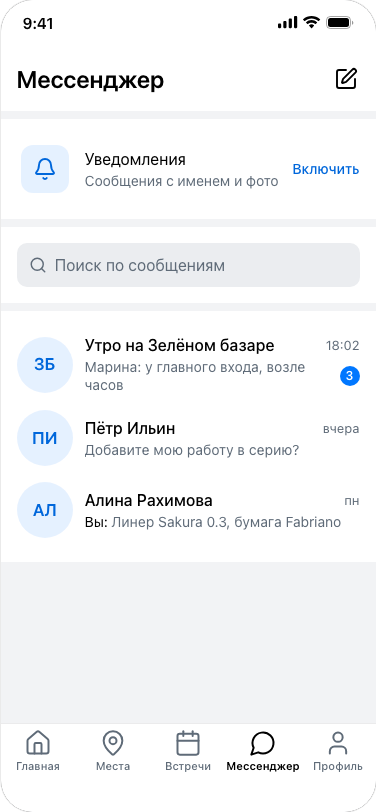
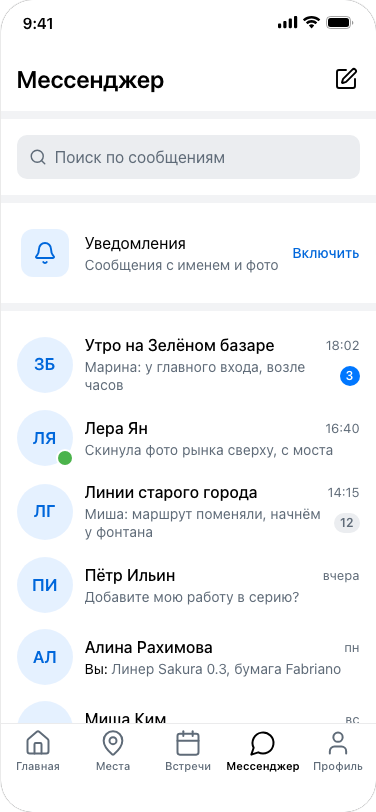
Штрих: мессенджер — поиск сверху, живой список диалогов по времени, отправитель голосового

diff --git a/platform/concepts/shtrikh/screens/chats.html b/platform/concepts/shtrikh/screens/chats.html
@@ -1,1 +1,1 @@
-<div class="screen ui vk-light" id="scr-chats"><div class="ui-scroll is-root"><header class="ui-large"><h1>Мессенджер</h1><button class="ui-icon-btn" data-go="authors" aria-label="Новое сообщение"><svg><use href="#i-square-pen"/></svg></button></header><section class="ui-sec"><div class="ui-list"><div class="ui-row"><span class="ui-lead"><svg><use href="#i-bell"/></svg></span><span class="ui-row-text"><strong>Уведомления</strong><span>Сообщения с именем и фото</span></span><button class="ui-row-end is-value is-action" data-activate="commnotif|chats" aria-label="Включить уведомления о сообщениях">Включить</button></div></div><p class="perm-hidden ui-note is-ok" data-show-granted="commnotif"><svg><use href="#i-circle-check"/></svg><span>Сообщения приходят с именем и фото</span></p></section><section class="ui-sec"><div class="ui-search"><svg><use href="#i-search"/></svg><span>Поиск по сообщениям</span></div></section><section class="ui-sec"><button class="ui-dialog" data-primary data-go="chat" aria-label="Диалог: Утро на Зелёном базаре"><span class="ui-dialog-ava"><span class="ui-dialog-face is-initial">ЗБ</span></span><span class="ui-dialog-body"><span class="ui-dialog-top"><strong>Утро на Зелёном базаре</strong><span>18:02</span></span><span class="ui-dialog-bottom"><span>Марина: у главного входа, возле часов</span><span class="ui-unread">3</span></span></span></button><button class="ui-dialog" data-go="direct" aria-label="Диалог: Пётр Ильин"><span class="ui-dialog-ava"><span class="ui-dialog-face is-initial">ПИ</span></span><span class="ui-dialog-body"><span class="ui-dialog-top"><strong>Пётр Ильин</strong><span>вчера</span></span><span class="ui-dialog-bottom"><span>Добавите мою работу в серию?</span></span></span></button><button class="ui-dialog" data-go="direct" aria-label="Диалог: Алина Рахимова"><span class="ui-dialog-ava"><span class="ui-dialog-face is-initial">АЛ</span></span><span class="ui-dialog-body"><span class="ui-dialog-top"><strong>Алина Рахимова</strong><span>пн</span></span><span class="ui-dialog-bottom"><span><b>Вы:</b> Линер Sakura 0.3, бумага Fabriano</span></span></span></button></section></div><nav class="ui-tabs tabbar" aria-label="Основная навигация"><div class="ui-tabrow"><button class="ui-tab tab" data-go="home"><svg><use href="#i-house"/></svg><span>Главная</span></button><button class="ui-tab tab" data-go="places"><svg><use href="#i-map-pin"/></svg><span>Места</span></button><button class="ui-tab tab" data-go="events"><svg><use href="#i-calendar"/></svg><span>Встречи</span></button><button class="ui-tab tab is-on" data-go="chats"><svg><use href="#i-message-circle"/></svg><span>Мессенджер</span></button><button class="ui-tab tab" data-go="me"><svg><use href="#i-user"/></svg><span>Профиль</span></button></div></nav><div class="home-ind"></div></div>
+<div class="screen ui vk-light" id="scr-chats"><div class="ui-scroll is-root"><header class="ui-large"><h1>Мессенджер</h1><button class="ui-icon-btn" data-go="authors" aria-label="Новое сообщение"><svg><use href="#i-square-pen"/></svg></button></header><section class="ui-sec"><div class="ui-search"><svg><use href="#i-search"/></svg><span>Поиск по сообщениям</span></div></section><section class="ui-sec"><div class="ui-list"><div class="ui-row"><span class="ui-lead"><svg><use href="#i-bell"/></svg></span><span class="ui-row-text"><strong>Уведомления</strong><span>Сообщения с именем и фото</span></span><button class="ui-row-end is-value is-action" data-activate="commnotif|chats" aria-label="Включить уведомления о сообщениях">Включить</button></div></div><p class="perm-hidden ui-note is-ok" data-show-granted="commnotif"><svg><use href="#i-circle-check"/></svg><span>Сообщения приходят с именем и фото</span></p></section><section class="ui-sec"><button class="ui-dialog" data-primary data-go="chat" aria-label="Диалог: Утро на Зелёном базаре"><span class="ui-dialog-ava"><span class="ui-dialog-face is-initial">ЗБ</span></span><span class="ui-dialog-body"><span class="ui-dialog-top"><strong>Утро на Зелёном базаре</strong><span>18:02</span></span><span class="ui-dialog-bottom"><span>Марина: у главного входа, возле часов</span><span class="ui-unread">3</span></span></span></button><button class="ui-dialog" data-go="direct" aria-label="Диалог: Лера Ян"><span class="ui-dialog-ava"><span class="ui-dialog-face is-initial">ЛЯ</span><i class="ui-online"></i></span><span class="ui-dialog-body"><span class="ui-dialog-top"><strong>Лера Ян</strong><span>16:40</span></span><span class="ui-dialog-bottom"><span>Скинула фото рынка сверху, с моста</span></span></span></button><button class="ui-dialog" data-go="chat" aria-label="Диалог: Линии старого города"><span class="ui-dialog-ava"><span class="ui-dialog-face is-initial">ЛГ</span></span><span class="ui-dialog-body"><span class="ui-dialog-top"><strong>Линии старого города</strong><span>14:15</span></span><span class="ui-dialog-bottom"><span>Миша: маршрут поменяли, начнём у фонтана</span><span class="ui-unread is-muted">12</span></span></span></button><button class="ui-dialog" data-go="direct" aria-label="Диалог: Пётр Ильин"><span class="ui-dialog-ava"><span class="ui-dialog-face is-initial">ПИ</span></span><span class="ui-dialog-body"><span class="ui-dialog-top"><strong>Пётр Ильин</strong><span>вчера</span></span><span class="ui-dialog-bottom"><span>Добавите мою работу в серию?</span></span></span></button><button class="ui-dialog" data-go="direct" aria-label="Диалог: Алина Рахимова"><span class="ui-dialog-ava"><span class="ui-dialog-face is-initial">АЛ</span></span><span class="ui-dialog-body"><span class="ui-dialog-top"><strong>Алина Рахимова</strong><span>пн</span></span><span class="ui-dialog-bottom"><span><b>Вы:</b> Линер Sakura 0.3, бумага Fabriano</span></span></span></button><button class="ui-dialog" data-go="direct" aria-label="Диалог: Миша Ким"><span class="ui-dialog-ava"><span class="ui-dialog-face is-initial">МК</span></span><span class="ui-dialog-body"><span class="ui-dialog-top"><strong>Миша Ким</strong><span>вс</span></span><span class="ui-dialog-bottom"><span>Спасибо за разбор перспективы</span></span></span></button><button class="ui-dialog" data-go="direct" aria-label="Диалог: Марина Ли"><span class="ui-dialog-ava"><span class="ui-dialog-face is-initial">МЛ</span></span><span class="ui-dialog-body"><span class="ui-dialog-top"><strong>Марина Ли</strong><span>14 сен</span></span><span class="ui-dialog-bottom"><span><b>Вы:</b> Приду пораньше, займу место у часов</span></span></span></button></section></div><nav class="ui-tabs tabbar" aria-label="Основная навигация"><div class="ui-tabrow"><button class="ui-tab tab" data-go="home"><svg><use href="#i-house"/></svg><span>Главная</span></button><button class="ui-tab tab" data-go="places"><svg><use href="#i-map-pin"/></svg><span>Места</span></button><button class="ui-tab tab" data-go="events"><svg><use href="#i-calendar"/></svg><span>Встречи</span></button><button class="ui-tab tab is-on" data-go="chats"><svg><use href="#i-message-circle"/></svg><span>Мессенджер</span></button><button class="ui-tab tab" data-go="me"><svg><use href="#i-user"/></svg><span>Профиль</span></button></div></nav><div class="home-ind"></div></div>

diff --git a/platform/concepts/shtrikh/screens/chat.html b/platform/concepts/shtrikh/screens/chat.html
@@ -1,1 +1,1 @@
-<div class="screen ui vk-light" id="scr-chat"><header class="ui-nav ui-chat-nav"><button class="ui-icon-btn" data-back aria-label="Назад"><svg><use href="#i-chevron-left"/></svg></button><span class="ui-chat-who"><span class="ui-chat-face is-initial">ЗБ</span><span class="ui-chat-text"><strong>Утро на Зелёном базаре</strong><span>Завтра в 09:00 · 18 участников</span></span></span><button class="ui-icon-btn" data-activate="voip|call" aria-label="Позвонить"><svg><use href="#i-phone"/></svg><span class="ui-sr">Позвонить</span></button></header><div class="ui-scroll"><div class="ui-chat"><p class="ui-day">Сегодня</p><div class="ui-bubble is-in"><span class="ui-bubble-from">Марина Ли</span><span class="ui-bubble-text">Встречаемся у главного входа, возле часов</span><span class="ui-bubble-meta">17:38</span></div><div class="ui-bubble is-in has-attach"><span class="ui-bubble-from">Миша Ким</span><span class="ui-bubble-media"><span class="sh-chat-art sh-s3"></span></span><span class="ui-bubble-text">Вот ракурс с прошлого раза</span><span class="ui-bubble-meta">17:52</span></div><div class="ui-bubble is-out"><span class="ui-bubble-text">Возьму линер и складной стул</span><span class="ui-bubble-meta">17:55<svg><use href="#i-check-check"/></svg></span></div><div class="ui-bubble ui-voice is-in"><span class="ui-voice-row"><button class="ui-voice-play" data-toast="Воспроизведение 0:09" aria-label="Голосовое 0:09"><svg class="ui-fill-ico"><use href="#i-play"/></svg></button><span class="ui-voice-body"><svg class="ui-wave" viewBox="0 0 120 24" aria-hidden="true"><rect x="0" y="4.5" width="2" height="15" rx="1"/><rect x="4" y="4.5" width="2" height="15" rx="1"/><rect x="8" y="4.5" width="2" height="15" rx="1"/><rect x="12" y="2.5" width="2" height="19" rx="1"/><rect x="16" y="3" width="2" height="18" rx="1"/><rect x="20" y="3" width="2" height="18" rx="1"/><rect x="24" y="3.5" width="2" height="17" rx="1"/><rect x="28" y="1" width="2" height="22" rx="1"/><rect x="32" y="7" width="2" height="10" rx="1"/><rect x="36" y="5" width="2" height="14" rx="1"/><rect x="40" y="2.5" width="2" height="19" rx="1"/><rect x="44" y="6.5" width="2" height="11" rx="1"/><rect x="48" y="9.5" width="2" height="5" rx="1"/><rect x="52" y="4" width="2" height="16" rx="1"/><rect x="56" y="4" width="2" height="16" rx="1"/><rect x="60" y="5.5" width="2" height="13" rx="1"/><rect x="64" y="7.5" width="2" height="9" rx="1"/><rect x="68" y="2.5" width="2" height="19" rx="1"/><rect x="72" y="4.5" width="2" height="15" rx="1"/><rect x="76" y="3.5" width="2" height="17" rx="1"/><rect x="80" y="7.5" width="2" height="9" rx="1"/><rect x="84" y="4.5" width="2" height="15" rx="1"/><rect x="88" y="4.5" width="2" height="15" rx="1"/><rect x="92" y="2.5" width="2" height="19" rx="1"/><rect x="96" y="3.5" width="2" height="17" rx="1"/><rect x="100" y="2" width="2" height="20" rx="1"/><rect x="104" y="7" width="2" height="10" rx="1"/><rect x="108" y="6.5" width="2" height="11" rx="1"/><rect x="112" y="6.5" width="2" height="11" rx="1"/><rect x="116" y="3.5" width="2" height="17" rx="1"/></svg><span class="ui-bubble-meta">0:09<span>18:02</span></span></span></span></div></div></div><div class="perm-hidden" data-show-denied="voip"><p class="ui-note"><svg><use href="#i-info"/></svg><span>Аудиоразбор выключен — продолжайте в сообщениях</span></p></div><div class="ui-composer"><button class="ui-icon-btn" data-go="picker" aria-label="Вложение"><svg><use href="#i-paperclip"/></svg></button><span class="ui-composer-field">Сообщение</span><button class="ui-icon-btn" data-toast="Запись голосового · отпустите, чтобы отправить" aria-label="Голосовое сообщение"><svg><use href="#i-mic"/></svg></button></div><div class="home-ind"></div></div>
+<div class="screen ui vk-light" id="scr-chat"><header class="ui-nav ui-chat-nav"><button class="ui-icon-btn" data-back aria-label="Назад"><svg><use href="#i-chevron-left"/></svg></button><span class="ui-chat-who"><span class="ui-chat-face is-initial">ЗБ</span><span class="ui-chat-text"><strong>Утро на Зелёном базаре</strong><span>Завтра в 09:00 · 18 участников</span></span></span><button class="ui-icon-btn" data-activate="voip|call" aria-label="Позвонить"><svg><use href="#i-phone"/></svg><span class="ui-sr">Позвонить</span></button></header><div class="ui-scroll"><div class="ui-chat"><p class="ui-day">Сегодня</p><div class="ui-bubble is-in"><span class="ui-bubble-from">Марина Ли</span><span class="ui-bubble-text">Встречаемся у главного входа, возле часов</span><span class="ui-bubble-meta">17:38</span></div><div class="ui-bubble is-in has-attach"><span class="ui-bubble-from">Миша Ким</span><span class="ui-bubble-media"><span class="sh-chat-art sh-s3"></span></span><span class="ui-bubble-text">Вот ракурс с прошлого раза</span><span class="ui-bubble-meta">17:52</span></div><div class="ui-bubble is-out"><span class="ui-bubble-text">Возьму линер и складной стул</span><span class="ui-bubble-meta">17:55<svg><use href="#i-check-check"/></svg></span></div><div class="ui-bubble ui-voice is-in"><span class="ui-bubble-from">Лера Ян</span><span class="ui-voice-row"><button class="ui-voice-play" data-toast="Воспроизведение 0:09" aria-label="Голосовое 0:09"><svg class="ui-fill-ico"><use href="#i-play"/></svg></button><span class="ui-voice-body"><svg class="ui-wave" viewBox="0 0 120 24" aria-hidden="true"><rect x="0" y="4.5" width="2" height="15" rx="1"/><rect x="4" y="4.5" width="2" height="15" rx="1"/><rect x="8" y="4.5" width="2" height="15" rx="1"/><rect x="12" y="2.5" width="2" height="19" rx="1"/><rect x="16" y="3" width="2" height="18" rx="1"/><rect x="20" y="3" width="2" height="18" rx="1"/><rect x="24" y="3.5" width="2" height="17" rx="1"/><rect x="28" y="1" width="2" height="22" rx="1"/><rect x="32" y="7" width="2" height="10" rx="1"/><rect x="36" y="5" width="2" height="14" rx="1"/><rect x="40" y="2.5" width="2" height="19" rx="1"/><rect x="44" y="6.5" width="2" height="11" rx="1"/><rect x="48" y="9.5" width="2" height="5" rx="1"/><rect x="52" y="4" width="2" height="16" rx="1"/><rect x="56" y="4" width="2" height="16" rx="1"/><rect x="60" y="5.5" width="2" height="13" rx="1"/><rect x="64" y="7.5" width="2" height="9" rx="1"/><rect x="68" y="2.5" width="2" height="19" rx="1"/><rect x="72" y="4.5" width="2" height="15" rx="1"/><rect x="76" y="3.5" width="2" height="17" rx="1"/><rect x="80" y="7.5" width="2" height="9" rx="1"/><rect x="84" y="4.5" width="2" height="15" rx="1"/><rect x="88" y="4.5" width="2" height="15" rx="1"/><rect x="92" y="2.5" width="2" height="19" rx="1"/><rect x="96" y="3.5" width="2" height="17" rx="1"/><rect x="100" y="2" width="2" height="20" rx="1"/><rect x="104" y="7" width="2" height="10" rx="1"/><rect x="108" y="6.5" width="2" height="11" rx="1"/><rect x="112" y="6.5" width="2" height="11" rx="1"/><rect x="116" y="3.5" width="2" height="17" rx="1"/></svg><span class="ui-bubble-meta">0:09<span>18:02</span></span></span></span></div></div></div><div class="perm-hidden" data-show-denied="voip"><p class="ui-note"><svg><use href="#i-info"/></svg><span>Аудиоразбор выключен — продолжайте в сообщениях</span></p></div><div class="ui-composer"><button class="ui-icon-btn" data-go="picker" aria-label="Вложение"><svg><use href="#i-paperclip"/></svg></button><span class="ui-composer-field">Сообщение</span><button class="ui-icon-btn" data-toast="Запись голосового · отпустите, чтобы отправить" aria-label="Голосовое сообщение"><svg><use href="#i-mic"/></svg></button></div><div class="home-ind"></div></div>

diff --git a/platform/concepts/shtrikh/docs/02-architecture.md b/platform/concepts/shtrikh/docs/02-architecture.md
@@ -111,7 +111,7 @@
 Чаты (chats) — tab (root) · открывается: вкладка таб-бара · commnotif
     ├─ Чат встречи (chat) — push · открывается: «Марина, Лера и ещё 16 идут», «Чат встречи» … · voip
     │   └─ Разбор работ после встречи (call) — fullscreen · открывается: «Позвонить» (voip)
-    └─ Личный диалог (direct) — push · открывается: «Написать», «Диалог: Пётр Ильин» …
+    └─ Личный диалог (direct) — push · открывается: «Написать», «Диалог: Лера Ян» …
 ```
 <!-- @end -->
 
@@ -197,8 +197,8 @@
 | `profile` | «Работа 1», «Работа 2» … | `post` | — | переход |
 | `chats` | «Новое сообщение» | `authors` | — | переход |
 | `chats` | «Включить уведомления о сообщениях» | `chats` | `com.apple.developer.usernotifications.communication` | entitlement, без alert |
-| `chats` | «Диалог: Утро на Зелёном базаре» | `chat` | — | переход |
-| `chats` | «Диалог: Пётр Ильин», «Диалог: Алина Рахимова» | `direct` | — | переход |
+| `chats` | «Диалог: Утро на Зелёном базаре», «Диалог: Линии старого города» | `chat` | — | переход |
+| `chats` | «Диалог: Лера Ян», «Диалог: Пётр Ильин» … | `direct` | — | переход |
 | `chat` | «Назад» | `chats` | — | возврат по IA |
 | `chat` | «Позвонить» | `call` | `UIBackgroundModes: voip` | entitlement, без alert |
 | `chat` | «Вложение» | `picker` | — | переход |

diff --git a/platform/concepts/shtrikh/docs/03-design-system.md b/platform/concepts/shtrikh/docs/03-design-system.md
@@ -31,7 +31,7 @@
 ## Компоненты ядра
 
 <!-- @generated:kernel-components -->
-Экраны собраны из компонентов `kernel/components.mjs`: `section` ×37, `button` ×19, `cell` ×18, `nav` ×15, `denied` ×15, `row` ×13, `iconButton` ×11, `list` ×10, `actions` ×9, `granted` ×7, `group` ×6, `leadIcon` ×6, `avatar` ×5, `bubble` ×5, `tabBar` ×5, `search` ×4, `composer` ×3, `largeTitle` ×3, `dialog` ×3, `textButton` ×3, `hscroll` ×3, `post` ×3, `chatNav` ×2, `chat` ×2, `day` ×2, `top` ×2, `stats` ×2, `callView` ×1, `voice` ×1, `miniInfo` ×1, `usersStack` ×1, `wordmark` ×1, `composerPrompt` ×1, `stories` ×1, `subnav` ×1.
+Экраны собраны из компонентов `kernel/components.mjs`: `section` ×37, `button` ×19, `cell` ×18, `nav` ×15, `denied` ×15, `row` ×13, `iconButton` ×11, `list` ×10, `actions` ×9, `granted` ×7, `dialog` ×7, `group` ×6, `leadIcon` ×6, `avatar` ×5, `bubble` ×5, `tabBar` ×5, `search` ×4, `composer` ×3, `largeTitle` ×3, `textButton` ×3, `hscroll` ×3, `post` ×3, `chatNav` ×2, `chat` ×2, `day` ×2, `top` ×2, `stats` ×2, `callView` ×1, `voice` ×1, `miniInfo` ×1, `usersStack` ×1, `wordmark` ×1, `composerPrompt` ×1, `stories` ×1, `subnav` ×1.
 <!-- @end -->
 
 ## Свои компоненты
